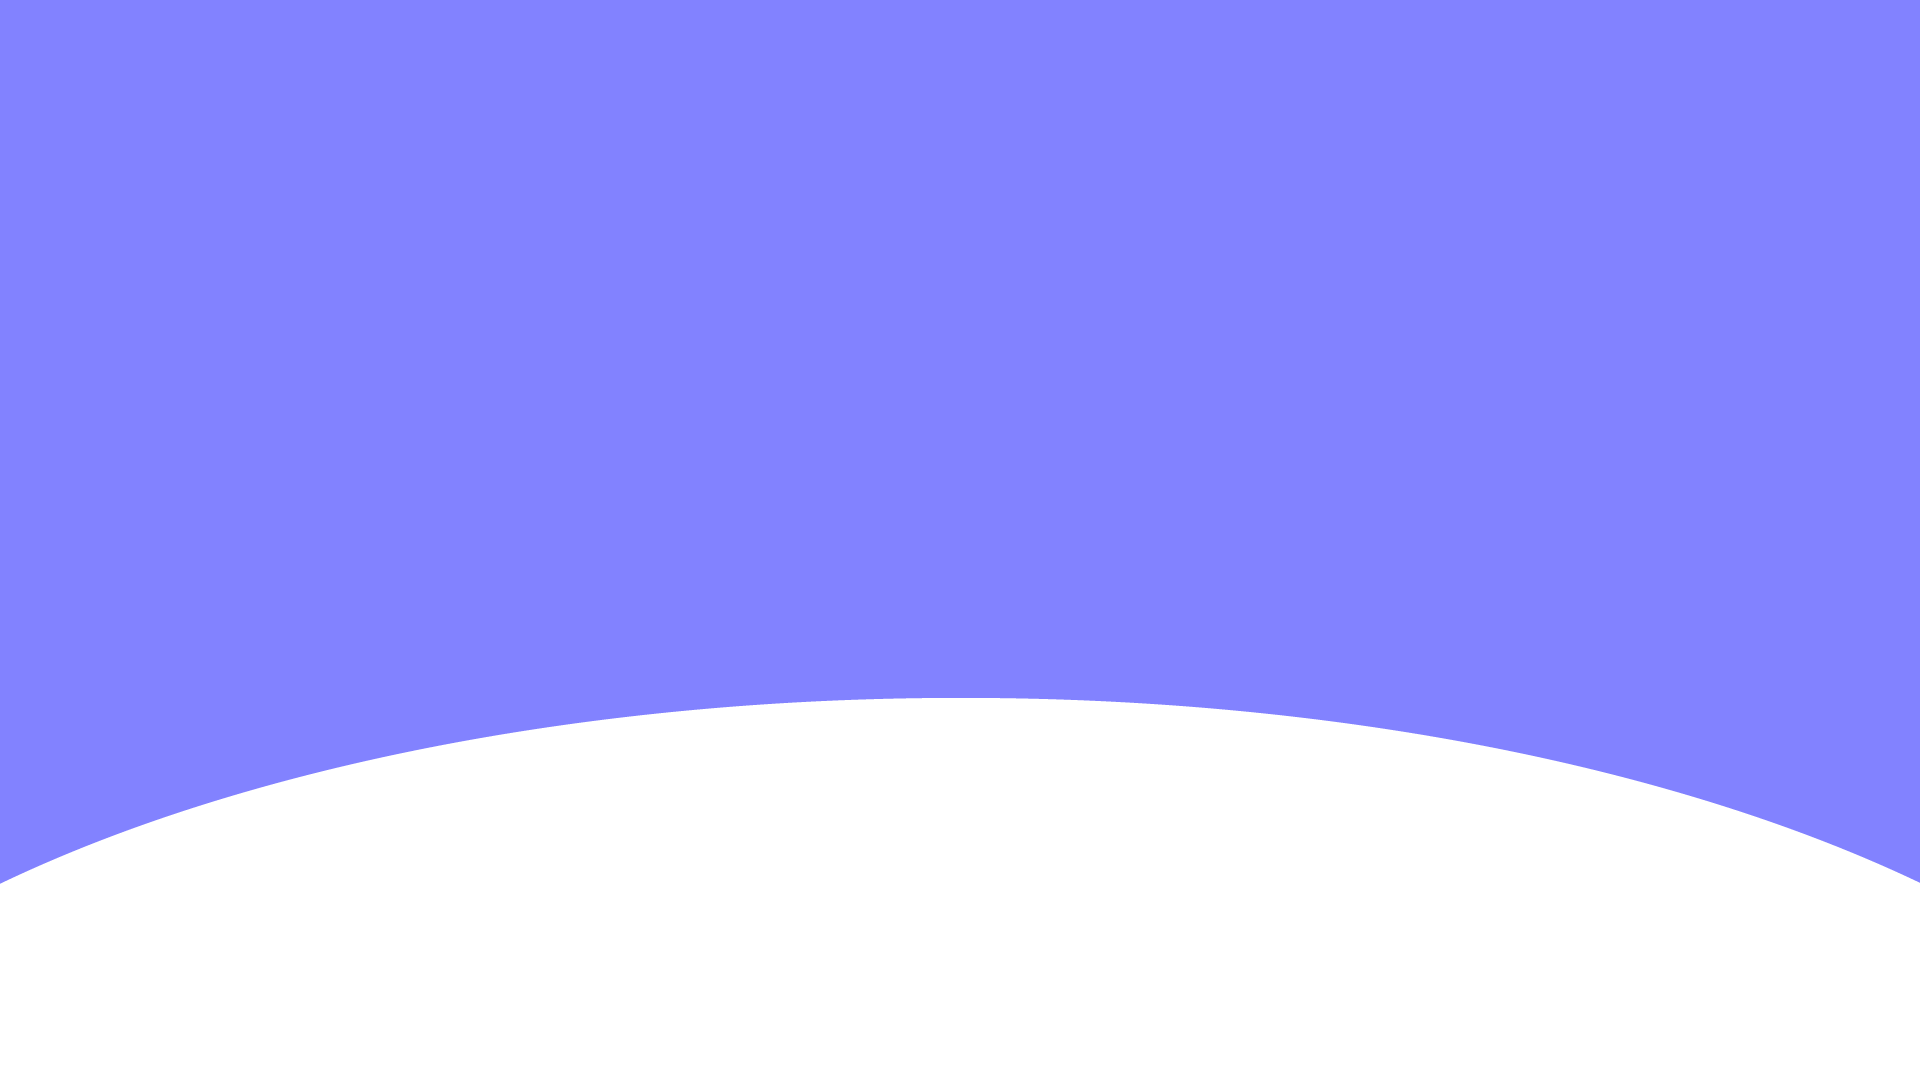
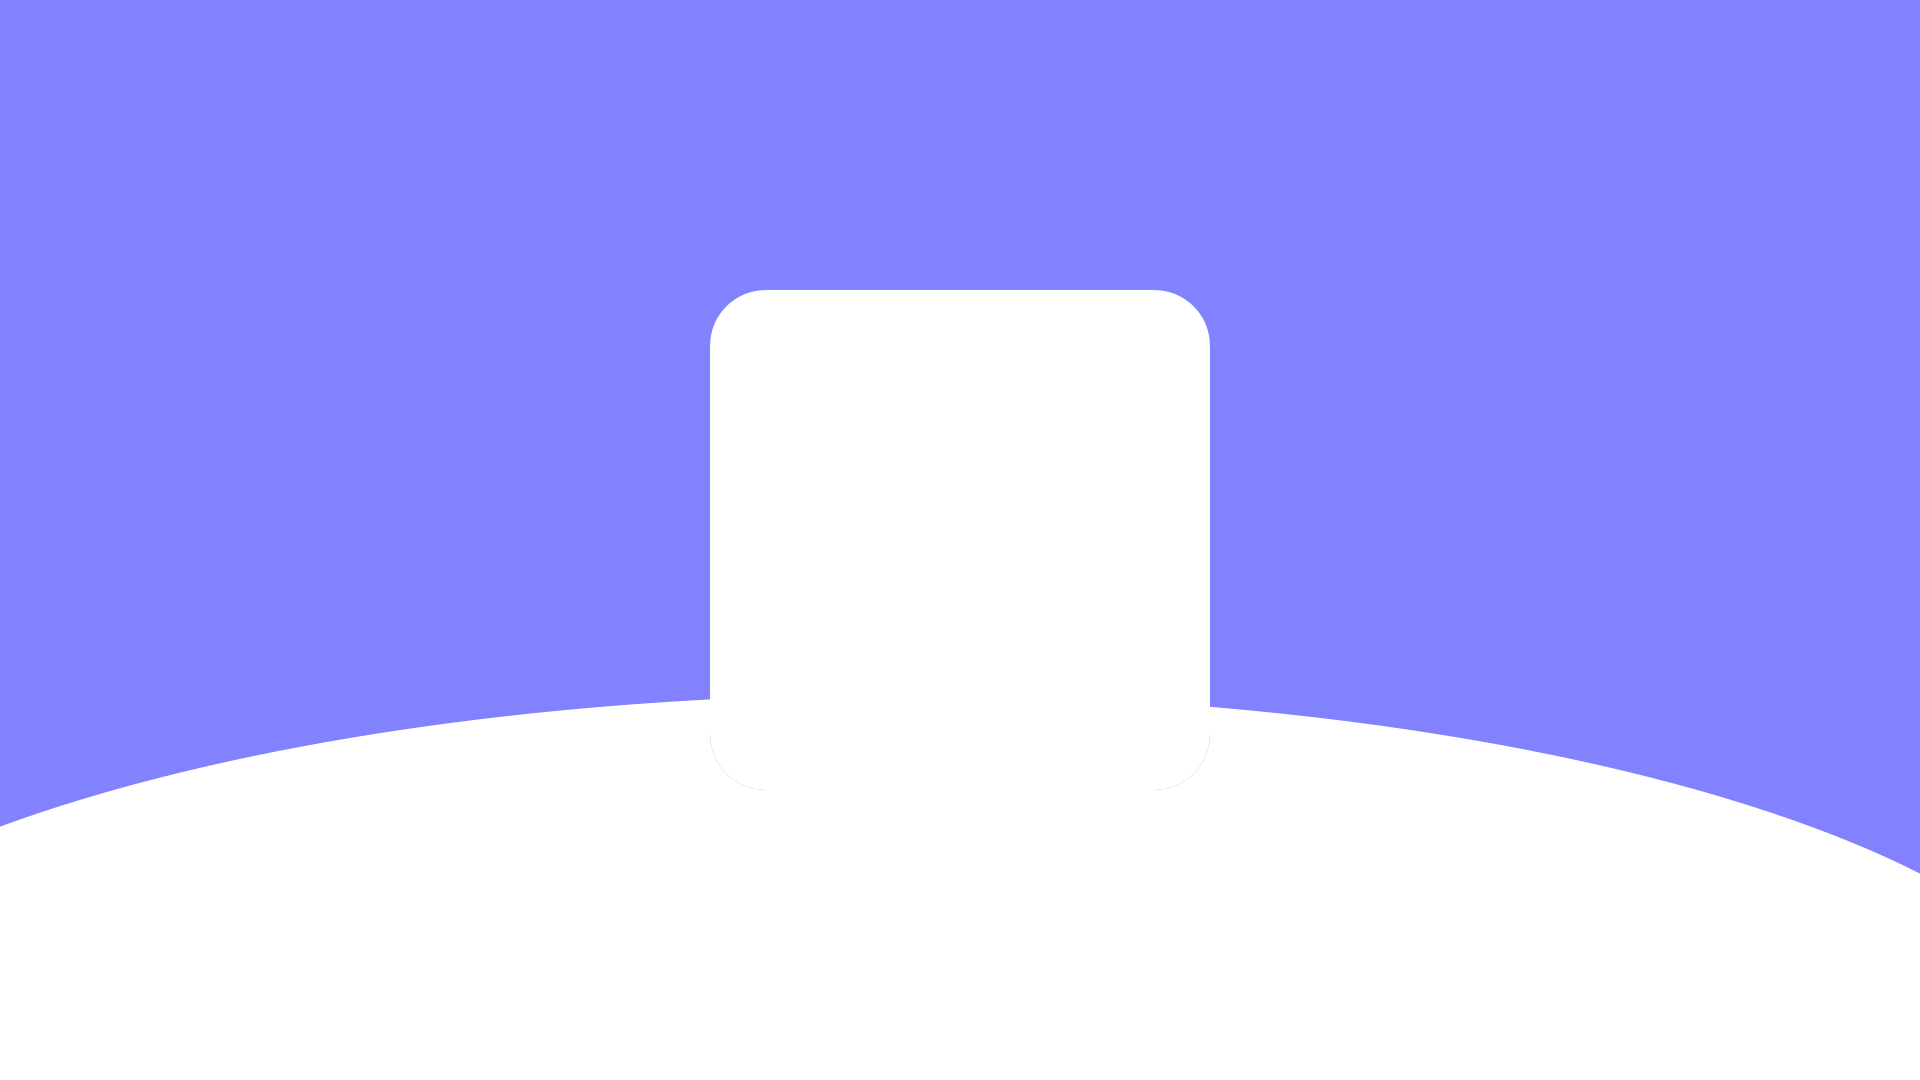
dialog_ui, memory management

diff --git a/src/main.cpp b/src/main.cpp
@@ -6,40 +6,50 @@
 #include "Capture.h"
 #include <memory>
 #include <QTimer>
-
+#include "DetectedQRDialog.h"
 
 int main(int argc, char *argv[])
 {
     QApplication a(argc, argv);
     Logger logger;
+    auto w = std::make_unique<MainWindow>();
+    auto attendance_dialog = std::make_unique<DetectedQRDialog>();
 
-    std::shared_ptr<cv::Mat> mat = std::make_shared<cv::Mat>();
-    std::shared_ptr<QMutex> image_mutex = std::make_shared<QMutex>();
+    auto thread = new QThread();  // They delete themselves later
+    auto capture = new Capture(); 
+
+
+    auto mat = std::make_shared<cv::Mat>();
+
+
+    QTimer timer_refresh_rate;
+
 
     QThread::currentThread()->setObjectName("Main Thread");
-    QThread* thread = new QThread();
     thread->setObjectName("Capture Thread");
-    Capture* capture = new Capture();
 
-    MainWindow w;
 
-    w.image = mat;
+    w->m_dialog = attendance_dialog.get();
+
+    w->image = mat;
     capture->image = mat;
-
+    
     capture->moveToThread(thread);
     QObject::connect(thread, &QThread::started, capture, &Capture::run, Qt::QueuedConnection);
     QObject::connect(capture, &Capture::finished, thread, &QThread::quit, Qt::QueuedConnection);
-    QObject::connect(capture, &Capture::finished, capture, &Capture::deleteLater, Qt::QueuedConnection);
-    QObject::connect(thread, &QThread::finished, thread, &QThread::deleteLater, Qt::QueuedConnection);
-    QObject::connect(capture, &Capture::updated, &w, &MainWindow::updateFrame, Qt::QueuedConnection);
-    QTimer timer = QTimer();
-    QObject::connect(&timer, &QTimer::timeout, capture, &Capture::getFrame, Qt::QueuedConnection);
-    QObject::connect(&w, &MainWindow::updated, capture, &Capture::setSync, Qt::QueuedConnection);
+    QObject::connect(capture, &Capture::updated, w.get(), &MainWindow::updateFrame, Qt::QueuedConnection);
+    QObject::connect(capture, &Capture::finished, capture, &Capture::deleteLater, Qt::DirectConnection);
+    QObject::connect(thread, &QThread::finished, thread, &QThread::deleteLater, Qt::DirectConnection);
+
+    QObject::connect(&timer_refresh_rate, &QTimer::timeout, capture, &Capture::getFrame, Qt::QueuedConnection);
+    QObject::connect(w.get(), &MainWindow::updated, capture, &Capture::setSync, Qt::QueuedConnection);
+    QObject::connect(w.get(), &MainWindow::detectedQR, attendance_dialog.get(), &DetectedQRDialog::display, Qt::DirectConnection);
+
+
 
     thread->start();
-    timer.start(16);
+    timer_refresh_rate.start(16);
+    w->show();
 
-    w.show();
-    
     return a.exec();
 }

diff --git a/src/mainwindow.cpp b/src/mainwindow.cpp
@@ -67,6 +67,9 @@ MainWindow::MainWindow(QWidget *parent)
 
 
     ui->camera->setStyleSheet("QLabel { background-color: transparent }");
+
+
+    
 }
 
 MainWindow::~MainWindow()
@@ -82,23 +85,28 @@ void MainWindow::updateFrame()
 
     if (image != nullptr)
     {
-        cv::QRCodeDetector qrDet;
-
-        QImage img((uchar*)image->data, image->cols, image->rows,  QImage::Format_RGB888);
-        QPixmap pixmap = QPixmap::fromImage(img);
-        ui->camera->setPixmap(pixmap.scaled(ui->scan_text->width(), ui->scan_text->height(), Qt::KeepAspectRatioByExpanding));
         
-
+        cv::QRCodeDetector qrDet;
         if (!detected_qr)
-        {
-            std::string data = qrDet.detectAndDecode(*image);
+        {   
+            QImage img((uchar*)image->data, image->cols, image->rows,  QImage::Format_RGB888);
+            QPixmap pixmap = QPixmap::fromImage(img);
+            ui->camera->setPixmap(pixmap.scaled(ui->camera->width(), ui->camera->height(), Qt::KeepAspectRatioByExpanding));
+   
+            std::string qr = qrDet.detectAndDecode(*image);
             
-            if (data.length() > 0)
+            if (qr.length() > 0)
             {
-                qInfo() << "Detected QR: " << data.c_str(); 
+                qInfo() << "Detected QR: " << qr.c_str(); 
                 detected_qr = true;
-                QTimer::singleShot(2500, this, [=]{detected_qr = false;}); // debouncing
-                emit detectedQR(data); 
+                QTimer::singleShot(2500, this, [=]{
+                    detected_qr = false; // debouncing
+                    if (m_dialog != nullptr)
+                    {
+                        m_dialog->hide();
+                    }
+                }); 
+                emit detectedQR(qr, 1, "C10"); 
             }
         }
         emit updated(); // this calls Capture::setSync (essentially a semaphore behavior but way faster than qmutex)

diff --git a/src/DetectedQRDialog.cpp b/src/DetectedQRDialog.cpp
@@ -1,0 +1,49 @@
+#include "DetectedQRDialog.h"
+#include "ui_DetectedQRDialog.h"
+#include <QPalette>
+DetectedQRDialog::DetectedQRDialog(QWidget *parent) :
+    QDialog(parent),
+    ui(new Ui::DetectedQRDialog)
+{
+    ui->setupUi(this);
+    setStyleSheet("background:transparent;");
+    setAttribute(Qt::WA_TranslucentBackground);
+    setWindowFlags(Qt::FramelessWindowHint);
+    QPixmap bg(CWD"/resources/dialog_background.png");
+    ui->dialog_background->setPixmap(bg.scaled(ui->dialog_background->width(), ui->dialog_background->height(), Qt::KeepAspectRatio));
+    ui->dialog_background->setStyleSheet("QLabel { background-color: transparent }");
+
+
+}
+
+DetectedQRDialog::~DetectedQRDialog()
+{
+    delete ui;
+}
+
+
+void DetectedQRDialog::display(const std::string& qr, const int& state, const std::string& correct_room)
+{
+    ui->name_label->setText(std::move(QString::fromStdString(qr)));
+    if (state == 0)
+    {
+        ui->attendance_label->setText(std::move(QString::fromStdString(m_attendance_confirmed)));
+        ui->attendance_label->setStyleSheet("QLabel { color: rgb(0,255,0); }");
+    }
+    else if (state == 1)
+    {
+        ui->attendance_label->setText(std::move(QString::fromStdString(m_wrong_room + correct_room)));
+        ui->attendance_label->setStyleSheet("QLabel { color: red }");
+    }
+    else
+    {
+        ui->attendance_label->setText(std::move(QString::fromStdString(m_not_found)));
+        ui->attendance_label->setStyleSheet("QLabel { color: red; }");
+    }
+    
+
+
+    this->show();
+
+    
+}

diff --git a/src/mainwindow.h b/src/mainwindow.h
@@ -1,9 +1,8 @@
-#ifndef MAINWINDOW_H
-#define MAINWINDOW_H
+#pragma once
 #include <QMainWindow>
 
 #include <iostream>
-
+#include <QtWidgets>
 #include <QMovie>
 #include <QMutex>
 #include <QTimer>
@@ -11,7 +10,7 @@
 #include <opencv2/objdetect.hpp>
 #include <opencv2/imgcodecs.hpp>
 #include <opencv2/imgproc/imgproc.hpp>
-
+#include "DetectedQRDialog.h"
 
 QT_BEGIN_NAMESPACE
 namespace Ui { class MainWindow; }
@@ -25,10 +24,11 @@ public:
     MainWindow(QWidget *parent = nullptr);
     ~MainWindow();
     std::shared_ptr<cv::Mat> image;
+    DetectedQRDialog* m_dialog; 
 public slots:
     void updateFrame();
 signals:
-    void detectedQR(std::string qr);
+    void detectedQR(const std::string& qr, const int& state, const std::string& correct_room);
 
     void updated();
 private:
@@ -40,4 +40,3 @@ private:
 
 };
 
-#endif // MAINWINDOW_H

diff --git a/src/DetectedQRDialog.h b/src/DetectedQRDialog.h
@@ -1,0 +1,23 @@
+#pragma once
+#include <QDialog>
+
+namespace Ui {
+class DetectedQRDialog;
+}
+
+class DetectedQRDialog : public QDialog
+{
+    Q_OBJECT
+
+public:
+    explicit DetectedQRDialog(QWidget *parent = nullptr);
+    ~DetectedQRDialog();
+public slots:
+    void display(const std::string& qr, const int& state, const std::string& correct_room);
+
+private:
+    Ui::DetectedQRDialog *ui;
+    const std::string m_attendance_confirmed = "Attendance Confirmed";
+    const std::string m_wrong_room = "Wrong room. Please proceed to room ";
+    const std::string m_not_found = "Name not found in the list";
+};  
